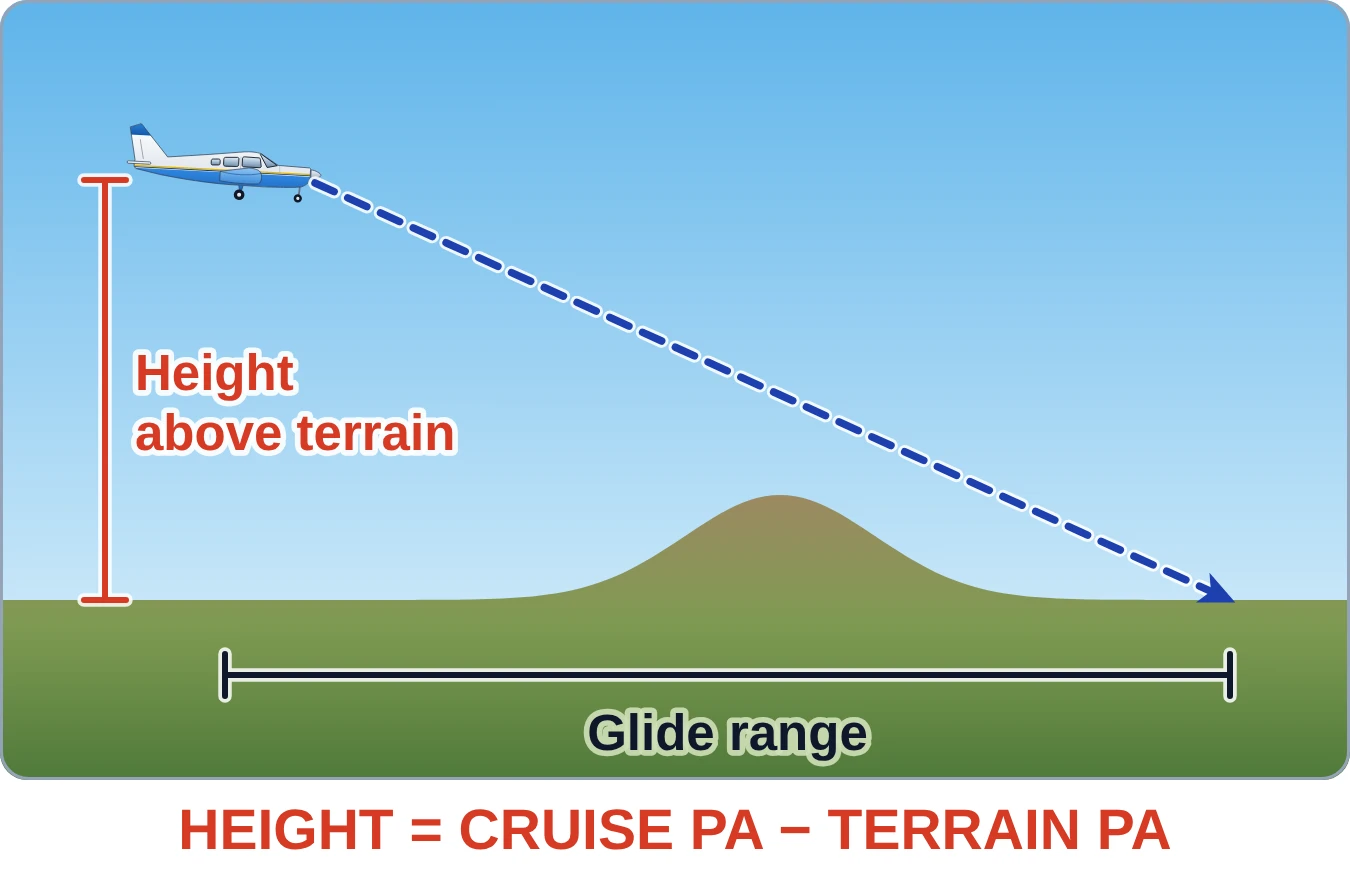
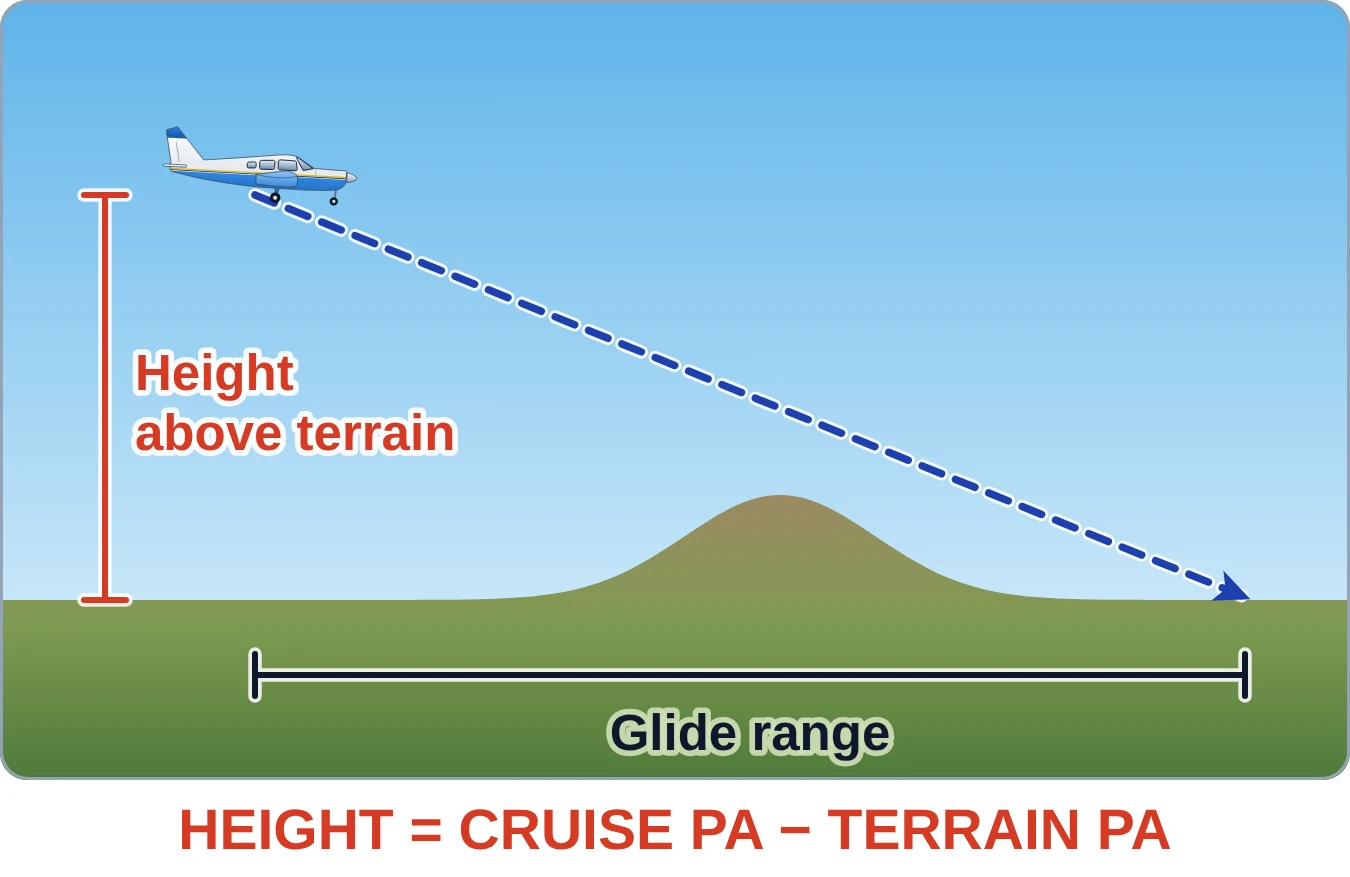
Flight Planning pictures: smooth flight paths with the aircraft on them
Feedback: most of the arrows and curves were bad. Paths are now one
smooth curve each, the aircraft sits on its own path (main wheels on
the line, turned to its direction) and the arrowhead ends clear of it.
Wind shear: the overshoot path rises gradually above the glide path
and floats past touchdown; the undershoot path sinks below it and
lands short. Take-off, landing, wake turbulence and glide paths are
redrawn the same way, and VX and VY use illustrative speeds that
separate the two climbs on a phone.

Claude-Session: https://claude.ai/code/session_01Rrv2AtHbYfafAcVfvxwyxc

diff --git a/scripts/trial_visuals/fp_phone.py b/scripts/trial_visuals/fp_phone.py
@@ -72,28 +72,81 @@ def on_ground(x, ground, width, nose_right=True, pitch=0):
     return aircraft(x, ground - 116 * width / 660, width, pitch, nose_right=nose_right)
 
 
+# ------------------------------------------------------------------ flight paths
+# A path is drawn once as a smooth curve; the aircraft sits on it with its main wheels on the line, turned to
+# the path's direction (or to a given attitude), and the arrowhead marks where the path ends.
+
+def curve(pts, n=40):
+    """Dense points along a Catmull-Rom spline through pts."""
+    out = []
+    for i in range(len(pts) - 1):
+        p0, p1, p2 = pts[max(i - 1, 0)], pts[i], pts[i + 1]
+        p3 = pts[min(i + 2, len(pts) - 1)]
+        for k in range(n):
+            t = k / n
+            out.append(tuple(0.5 * ((2 * p1[j]) + (-p0[j] + p2[j]) * t + (2 * p0[j] - 5 * p1[j] + 4 * p2[j] - p3[j]) * t * t
+                                    + (-p0[j] + 3 * p1[j] - 3 * p2[j] + p3[j]) * t ** 3) for j in (0, 1)))
+    return out + [pts[-1]]
+
+
+def track(dense, color, mid=None, w=LINE_W, dash=""):
+    d = "M " + " L ".join(f"{x:.1f},{y:.1f}" for x, y in dense)
+    extra = (f' stroke-dasharray="{dash}"' if dash else "")
+    s = path(d, "none", "#ffffff", w + 4, ' stroke-opacity="0.85"' + extra)
+    return s + path(d, "none", color, w, (f' marker-end="url(#{mid})"' if mid else "") + extra)
+
+
+def at(dense, f):
+    """Point and direction (degrees, nose-up positive, moving right) a fraction f of the way along a path."""
+    seg = [math.dist(a, b) for a, b in zip(dense[:-1], dense[1:])]
+    goal, run, i = f * sum(seg), 0.0, 0
+    while i < len(seg) - 1 and run + seg[i] < goal:
+        run += seg[i]
+        i += 1
+    (x0, y0), (x1, y1) = dense[i], dense[i + 1]
+    t = (goal - run) / seg[i] if seg[i] else 0
+    return (x0 + (x1 - x0) * t, y0 + (y1 - y0) * t), math.degrees(math.atan2(y0 - y1, x1 - x0))
+
+
+def plane_on(dense, f, width=120, pitch=None, prop=True):
+    """Trainer flying right along the path, main wheels on it; pitch defaults to the path direction."""
+    (x, y), ang = at(dense, f)
+    p = math.radians(ang if pitch is None else pitch)
+    k = width / 660
+    a, b = 53 * k, 116 * k   # main wheel from the aircraft centre
+    return aircraft(x - (a * math.cos(p) + b * math.sin(p)), y - (-a * math.sin(p) + b * math.cos(p)), width,
+                    ang if pitch is None else pitch, prop=prop)
+
+
+def straight(a, b):
+    return [a, b]
+
+
 # ------------------------------------------------------------------ take-off distance
 
 TO_H, TO_G = 440, 330
+LIFT, SCREEN = 440, (720, 160)
+CLIMB = curve([(LIFT, TO_G), (LIFT + 90, TO_G - 22), (SCREEN[0], SCREEN[1]), (860, 70)])
 
 
 def takeoff_panel(full):
     def draw(w, h):
         s = terrain(flat(TO_G), w, h, "url(#ground_day)") + runway_side(0, w, TO_G)
-        lift, scr = (470, TO_G), (760, 150)
-        s += polyline([(70, TO_G - 8), lift], INK, 4, "12 9")
-        s += line(lift, scr if full else (600, TO_G - 70), NAVY_BLUE, "nh_navy")
+        s += track([(70, TO_G - 2), (LIFT, TO_G - 2)], INK, w=4, dash="12 9")
         if full:
-            s += screen(scr[0], TO_G, scr[1])
-            s += aircraft(scr[0] + 50, scr[1] - 34, 130, 10)
-            s += label(scr[0] + 26, 250, "50 ft", TXT_L, RED)
-            s += dim_h(70, scr[0], TO_G + 36)
-            s += label(415, TO_G + 84, "Take-off distance", TXT_M, INK, "middle", halo="#cfe0b8")
+            s += screen(SCREEN[0], TO_G, SCREEN[1])
+            s += track(CLIMB, NAVY_BLUE, "nh_navy")
+            s += plane_on(CLIMB, 0.8)
+            s += label(SCREEN[0] + 26, 270, "50 ft", TXT_L, RED)
+            s += dim_h(70, SCREEN[0], TO_G + 36)
+            s += label(395, TO_G + 84, "Take-off distance", TXT_M, INK, "middle", halo="#cfe0b8")
         else:
-            s += on_ground(lift[0], TO_G, 130, pitch=8)
-            s += dim_h(70, lift[0], TO_G + 36)
-            s += label(270, TO_G + 84, "Ground roll", TXT_M, INK, "middle", halo="#cfe0b8")
-            s += label(lift[0] + 30, 180, "Lift-off", TXT_L, NAVY_BLUE)
+            part = CLIMB[:len(CLIMB) // 2]
+            s += track(part, NAVY_BLUE, "nh_navy")
+            s += plane_on(CLIMB, 0.0, pitch=8)
+            s += dim_h(70, LIFT, TO_G + 36)
+            s += label(255, TO_G + 84, "Ground roll", TXT_M, INK, "middle", halo="#cfe0b8")
+            s += label(LIFT - 40, 250, "Lift-off", TXT_L, NAVY_BLUE, "end")
         return s
     return dict(h=TO_H, sky="sky_day", draw=draw, color=NAVY_BLUE if full else INK,
                 caption="TAKE-OFF DISTANCE: TO 50 FT" if full else "GROUND ROLL: TO LIFT-OFF")
@@ -109,23 +162,26 @@ def _():
 
 # ------------------------------------------------------------------ landing distance
 
+SCR_L, TD, STOP = (140, 160), 450, 780
+APPROACH = curve([(0, 160 - 140 * 170 / 310), SCR_L, (TD - 70, TO_G - 18), (TD, TO_G)])
+
+
 def landing_panel(full):
     def draw(w, h):
         s = terrain(flat(TO_G), w, h, "url(#ground_day)") + runway_side(0, w, TO_G)
-        scr, td, stop = (130, 150), (440, TO_G), (790, TO_G)
-        s += line((0, 150 - 130 * 0.58), scr, NAVY_BLUE, w=LINE_W, dash="12 9")
-        s += line(scr, toward(scr, td, 24), NAVY_BLUE, "nh_navy")
-        s += polyline([td, (stop[0] - 30, TO_G - 8)], INK, 4, "12 9")
-        s += on_ground(stop[0], TO_G, 130)
+        s += track(APPROACH, NAVY_BLUE, "nh_navy")
+        s += track([(TD + 20, TO_G - 2), (STOP - 40, TO_G - 2)], INK, w=4, dash="12 9")
         if full:
-            s += screen(scr[0], TO_G, scr[1])
-            s += label(scr[0] + 26, 250, "50 ft", TXT_L, RED)
-            s += dim_h(scr[0], stop[0] + 20, TO_G + 36)
+            s += screen(SCR_L[0], TO_G, SCR_L[1])
+            s += plane_on(APPROACH, 0.3, pitch=-2)
+            s += label(SCR_L[0] + 26, 270, "50 ft", TXT_L, RED)
+            s += dim_h(SCR_L[0], STOP + 20, TO_G + 36)
             s += label(470, TO_G + 84, "Landing distance", TXT_M, INK, "middle", halo="#cfe0b8")
         else:
-            s += dim_h(td[0], stop[0] + 20, TO_G + 36)
-            s += label(620, TO_G + 84, "Ground roll", TXT_M, INK, "middle", halo="#cfe0b8")
-            s += label(td[0] + 20, 270, "Touchdown", TXT_L, NAVY_BLUE)
+            s += on_ground(STOP, TO_G, 130)
+            s += dim_h(TD, STOP + 20, TO_G + 36)
+            s += label(625, TO_G + 84, "Ground roll", TXT_M, INK, "middle", halo="#cfe0b8")
+            s += label(TD + 10, 250, "Touchdown", TXT_L, NAVY_BLUE)
         return s
     return dict(h=TO_H, sky="sky_day", draw=draw, color=NAVY_BLUE if full else INK,
                 caption="LANDING DISTANCE: FROM 50 FT" if full else "GROUND ROLL: TOUCHDOWN TO STOP")
@@ -327,31 +383,29 @@ WS_H = 460
 
 def shear_panel(more_headwind):
     def draw(w, h):
-        g = 400
+        g, td = 400, 690
         s = terrain(flat(g), w, h, "url(#ground_day)") + runway_side(620, w, g)
-        a, td = (40, 90), (680, g)
-        s += line(a, td, INK, w=4, dash="14 10")
-        s += label(40, 60, "Glide path", TXT_M, INK)
-        mid = (a[0] + 0.35 * (td[0] - a[0]), a[1] + 0.35 * (td[1] - a[1]))
-        if more_headwind:
-            end = (td[0] + 160, g - 150)
+        gy = lambda x: 160 + (g - 160) * x / td  # noqa: E731  (the glide path, 0 to touchdown)
+        s += track([(0, gy(0)), (td, g)], INK, w=4, dash="14 10")
+        s += label(30, 120, "Glide path", TXT_M, INK)
+        x0 = 230
+        if more_headwind:   # balloons above the path and floats past the touchdown point
+            pts = [(x0, gy(x0)), (x0 + 140, gy(x0 + 140) - 22), (x0 + 300, gy(x0 + 300) - 62), (x0 + 470, gy(x0 + 470) - 92)]
             col, mk = NAVY_BLUE, "nh_navy"
-        else:
-            end = (td[0] - 230, g)
+        else:               # sinks below the path and lands short
+            pts = [(x0, gy(x0)), (x0 + 110, gy(x0 + 110) + 26), (x0 + 220, gy(x0 + 220) + 66), (x0 + 300, g - 6)]
             col, mk = RED, "nh_red"
-        pts = [mid] + [(mid[0] + (end[0] - mid[0]) * t, mid[1] + (end[1] - mid[1]) * t
-                        - (1 - t) * t * (120 if more_headwind else -90)) for t in (0.3, 0.6, 1.0)]
-        d = f"M {pts[0][0]:.0f},{pts[0][1]:.0f} C {pts[1][0]:.0f},{pts[1][1]:.0f} {pts[2][0]:.0f},{pts[2][1]:.0f} {pts[3][0]:.0f},{pts[3][1]:.0f}"
-        s += path(d, "none", "#ffffff", 10, ' stroke-opacity="0.85"') + path(d, "none", col, 6, f' marker-end="url(#{mk})"')
-        s += aircraft(mid[0], mid[1] - 22, 120, -4)
+        dense = curve(pts)
+        s += track(dense, col, mk)
+        s += plane_on(dense, 0.02, pitch=-3)
         if more_headwind:
-            for k, y in enumerate((130, 200)):
-                s += flow([(870, y), (720, y)], BLUE, "head_blue", 9 - 2 * k)
-            s += label(880, 70, "More headwind", TXT_M, BLUE, "end")
+            for k, y in enumerate((70, 130)):
+                s += flow([(880, y), (730, y)], BLUE, "head_blue", 7 - 2 * k)
+            s += label(880, 190, "More headwind", TXT_M, BLUE, "end")
         else:
-            for k, y in enumerate((130, 200)):
-                s += flow([(560, y), (720, y)], RED, "head_red", 9 - 2 * k)
-            s += label(880, 70, "More tailwind\nor less headwind", TXT_M, RED, "end")
+            for k, y in enumerate((70, 130)):
+                s += flow([(580, y), (730, y)], RED, "head_red", 7 - 2 * k)
+            s += label(880, 190, "More tailwind\nor less headwind", TXT_M, RED, "end")
         return s
     return dict(h=WS_H, sky="sky_day", draw=draw, color=NAVY_BLUE if more_headwind else RED,
                 caption="ABOVE THE PATH: OVERSHOOT" if more_headwind else "BELOW THE PATH: UNDERSHOOT")
@@ -397,20 +451,26 @@ def wake_panel(departing):
         s = terrain(flat(g), w, h, "url(#ground_day)") + runway_side(0, w, g)
         if not departing:
             td = 330
-            s += wake([(0, 150), (td - 60, g - 70)], sink=20)
+            heavy = [(0, 170), (td, g)]
+            s += track(heavy, "#64748b", w=4, dash="12 9")
+            s += wake([(0, 170), (td - 70, g - 45)], sink=24)
             s += airliner_side(td, g, 360, 0, facing_right=True)
-            s += polyline([(0, 40), (700, g - 4)], NAVY_BLUE, 5, mid="nh_navy")
-            s += aircraft(190, 118, 110, -6)
+            light = curve([(0, 50), (420, 230), (640, g - 4)])
+            s += track(light, NAVY_BLUE, "nh_navy")
+            s += plane_on(light, 0.3, 110, pitch=-3)
             s += path(f"M {td},{g + 6} L {td},{g + 40}", "none", INK, 5)
             s += label(td, g + 76, "Heavy's touchdown", TXT_M, INK, "middle", halo="#cfe0b8")
             s += label(870, 240, "Land\nbeyond", TXT_L, NAVY_BLUE, "end")
         else:
             lo = 560
-            s += wake([(lo + 20, g - 40), (w, g - 210)], sink=20)
-            s += airliner_side(lo + 230, g - 120, 360, 12, facing_right=True)
-            s += polyline([(60, g - 8), (330, g - 8)], INK, 4, "12 9")
-            s += line((330, g - 8), (560, 130), NAVY_BLUE, "nh_navy")
-            s += aircraft(470, 210, 110, 14)
+            heavy = [(lo, g), (w + 40, g - 75)]
+            s += track(heavy, "#64748b", w=4, dash="12 9")
+            s += wake([(lo + 40, g - 8), (w, g - 64)], sink=22)
+            s += airliner_side(lo + 170, g - 34, 300, 12, facing_right=True)
+            s += track([(60, g - 2), (300, g - 2)], INK, w=4, dash="12 9")
+            light = curve([(300, g), (380, g - 30), (600, 170)])
+            s += track(light, NAVY_BLUE, "nh_navy")
+            s += plane_on(light, 0.55, 110)
             s += path(f"M {lo},{g + 6} L {lo},{g + 40}", "none", INK, 5)
             s += label(lo, g + 76, "Heavy's lift-off", TXT_M, INK, "middle", halo="#cfe0b8")
             s += label(40, 120, "Lift off\nbefore", TXT_L, NAVY_BLUE)
@@ -430,9 +490,10 @@ def _():
 # ------------------------------------------------------------------ VX and VY
 
 VX_H = 440
-# A typical trainer: VX 63 kt at 600 ft/min, VY 79 kt at 650 ft/min (VX: more height per mile; VY: per minute).
-VX = (63, 600)
-VY = (79, 650)
+# Illustrative numbers, spread so the two climbs separate on a phone: VX 55 kt at 600 ft/min (655 ft per NM),
+# VY 80 kt at 700 ft/min (525 ft per NM). VX gains more height per mile, VY more per minute.
+VX = (55, 600)
+VY = (80, 700)
 PX_NM, PX_FT, X0, G0 = 520, 0.42, 110, 380
 
 
@@ -443,18 +504,18 @@ def climb_xy(speed, rate, minutes):
 def vxvy_panel(same_time):
     def draw(w, h):
         s = terrain(flat(G0), w, h, "url(#ground_day)") + runway_side(0, 300, G0)
+        px, py = climb_xy(*VX, 1.0)
         if same_time:
-            px, py = climb_xy(*VX, 1.0)
             qx, qy = climb_xy(*VY, 1.0)
         else:
-            px, py = climb_xy(*VX, 1.0)
             qx, qy = climb_xy(*VY, (px - X0) / PX_NM * 60 / VY[0])
-            s += path(f"M {px:.0f},{G0} L {px:.0f},{py - 40:.0f}", "none", INK, 3, ' stroke-dasharray="10 8"')
+            s += path(f"M {px:.0f},{G0} L {px:.0f},{py - 60:.0f}", "none", INK, 3, ' stroke-dasharray="10 8"')
             s += tree(px - 40, G0, 1.6) + tree(px + 10, G0, 2.0)
-        s += line((X0, G0 - 6), (px, py), RED, "nh_red")
-        s += line((X0, G0 - 6), (qx, qy), NAVY_BLUE, "nh_navy")
-        s += label(px - 40, py - 20, "VX", TXT_L, RED, "end")
-        s += label(qx + 20, qy + 60, "VY", TXT_L, NAVY_BLUE)
+        vx_path, vy_path = [(X0, G0), (px, py)], [(X0, G0), (qx, qy)]
+        s += track(vy_path, NAVY_BLUE) + track(vx_path, RED)
+        s += plane_on(vy_path, 0.99, 100) + plane_on(vx_path, 0.99, 100)
+        s += label(px - 70, py - 40, "VX", TXT_L, RED, "end")
+        s += label(qx + 20, qy + 70, "VY", TXT_L, NAVY_BLUE)
         return s
     return dict(h=VX_H, sky="sky_day", draw=draw, color=RED if not same_time else NAVY_BLUE,
                 caption="SAME DISTANCE: VX CLIMBS MORE" if not same_time else "SAME TIME: VY CLIMBS MORE")
@@ -503,13 +564,14 @@ def glide_panel():
         g = 400
         hill = lambda x: g - 70 * math.exp(-((x - 520) / 90) ** 2)  # noqa: E731
         s = terrain(hill, w, h, "url(#ground_day)")
-        a, end = (150, 110), (820, g)
-        s += aircraft(a[0], a[1], 130, -3, prop=False)
-        s += line((a[0] + 60, a[1] + 12), end, NAVY_BLUE, "nh_navy", dash="14 10")
-        s += dim_v(70, a[1] + 10, g, RED)
+        start, end = (170, 130), (830, g - 2)
+        glide = [start, end]
+        s += track(glide, NAVY_BLUE, "nh_navy", dash="14 10")
+        s += plane_on(glide, 0.02, 130, pitch=-3, prop=False)
+        s += dim_v(70, start[1], g, RED)
         s += label(90, 260, "Height\nabove terrain", TXT_M, RED)
-        s += dim_h(a[0], end[0], g + 50)
-        s += label((a[0] + end[0]) / 2, g + 100, "Glide range", TXT_M, INK, "middle", halo="#cfe0b8")
+        s += dim_h(start[0], end[0], g + 50)
+        s += label((start[0] + end[0]) / 2, g + 100, "Glide range", TXT_M, INK, "middle", halo="#cfe0b8")
         return s
     return dict(h=GL_H, sky="sky_day", draw=draw, color=RED, caption="HEIGHT = CRUISE PA − TERRAIN PA")
 
